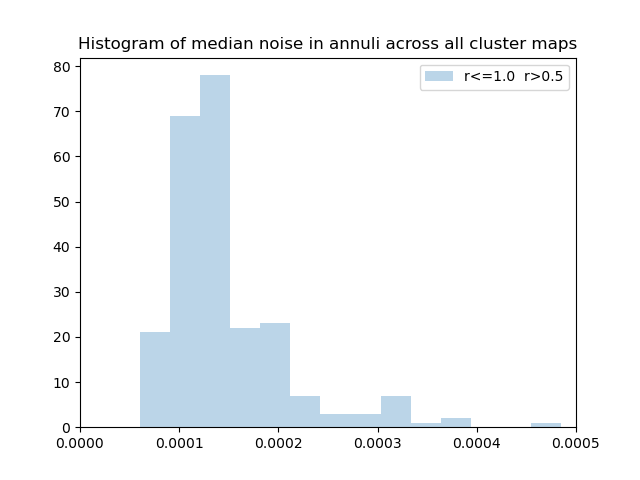
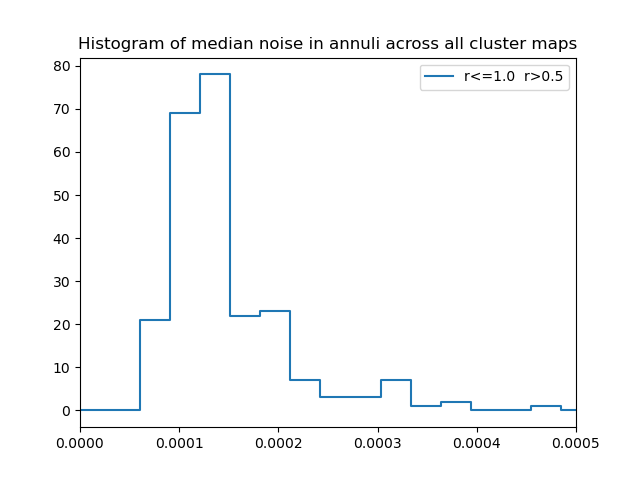
remade noise hists

diff --git a/noise_all.py b/noise_all.py
@@ -84,7 +84,7 @@ plt.close(fig)
 for i in range(len(min_rad)-4):
 	fig = plt.figure()
 	hist,bins = np.histogram(median_noise[i],bins=np.linspace(0,0.003,100))
-	plt.hist(bins[:-1],hist,where="post",label="r<="+str(max_rad[i])+"  r>"+str(min_rad[i]))
+	plt.step(bins[:-1],hist,where="post",label="r<="+str(max_rad[i])+"  r>"+str(min_rad[i]))
 	plt.title("Histogram of median noise in annuli across all cluster maps")
 	plt.legend()
 	if i<5:
